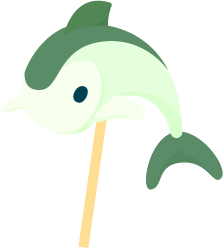
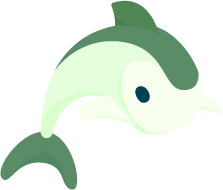
more cool animations! #todo get rid of the stick for the bird

diff --git a/js/parallax.js b/js/parallax.js
@@ -1,39 +1,82 @@
-
-
 $(function() {
 //$('#scene').parallax();	
 
 	//animating the waves
 	$(document).ready(function() {
 		//waves
-        var intId = setInterval(animateImageLeft,1000);
-        var intId = setInterval(animateupImageLeft,1000);
-        var intId = setInterval(animateImageupRight,1000);
-        var intId = setInterval(animateImageRight,1000);
+		var intId = setInterval(animateImageLeft,1000);
+		var intId = setInterval(animateupImageLeft,1000);
+		var intId = setInterval(animateImageupRight,1000);
+		var intId = setInterval(animateImageRight,1000);
+    var intId = setInterval(animateStump,1000);    
+    var intId = setInterval(animateStumpUp,1000);
+    var intId = setInterval(animateGator,1000);    
+    var intId = setInterval(animateGatorUp,1000);
+    //float that stork
+    $('#stork').each(function() {
+      $(this).jqFloat({
+        width:Math.floor(Math.random()*10)*10,
+        height:10,
+        speed:Math.floor(Math.random()*10)*100 + 500
+    });
+  }); 
+
+
         //.waves
         //fish
-        var intId = setInterval(animateupFish,1000);
-        var intId = setInterval(animateFish,1000);
+        //var intId = setInterval(animateupFish,1000);
+        //var intId = setInterval(animateFish,1000);
+        moveit();
+
     }); 
 
-    function animateImageLeft() {
-        $("#wave1").animate({bottom: '-10%'}, 3000, 'swing', 1000);
-          }
-    function animateupImageLeft() {
-       $('#wave1').animate({bottom: '-5%'}, 3000, 'swing',1000 );
-      }
-    function animateImageRight() {
-        $("#wave2").animate({bottom: '-10%'}, 3000, 'swing', 1000);
-          }
-    function animateImageupRight() {
-       $('#wave2').animate({bottom: '-5%'}, 3000, 'swing', 1000);
-      }
-      //end wave animation
+	function animateImageLeft() {
+		$("#wave1").animate({bottom: '-30%'}, 3000, 'swing', 1000);
+	}
+	function animateupImageLeft() {
+		$('#wave1').animate({bottom: '-25%'}, 3000, 'swing',1000 );
+	}
+	function animateImageRight() {
+		$("#wave2").animate({bottom: '-30%'}, 3000, 'swing', 1000);
+	}
+	function animateImageupRight() {
+		$('#wave2').animate({bottom: '-25%'}, 3000, 'swing', 1000);
+	}
+  function animateStump() {
+    $('#stump').animate({bottom: '15%'}, 3000, 'swing', 1000);
+  }
+  function animateStumpUp() {
+    $('#stump').animate({bottom: '20%'}, 3000, 'swing', 1000);
+
+  }
+  function animateGator() {
+    $('#gator').animate({bottom: '14%'}, 3000, 'swing', 1000);
+  }
+  function animateGatorUp() {
+    $('#gator').animate({bottom: '9%'}, 3000, 'swing', 1000);
+
+  }   //end wave animation
       //fish animation
-    function animateFish() {
-       $('#fish').animate({bottom: '-5%'}, 3000, 'swing', 1000);
+      /**function animateFish() {
+      	$('#fish').animate({bottom: '-7%'}, 3000, 'swing', 1000);
       }
-    function animateupFish() {
-       $('#fish').animate({bottom: '20%'}, 3000, 'swing', 1000);
+      function animateupFish() {
+      	$('#fish').animate({bottom: '20%'}, 3000, 'swing', 1000);
+      }**/
+      var t = 0;
+      function moveit() {
+      	t += 0.05;
+
+      	var r = 150;
+      	var xcenter = 425;
+      	var ycenter = 425;
+      	var newLeft = Math.floor(xcenter + (r * Math.cos(t)));
+      	var newTop = Math.floor(ycenter + (r * Math.sin(t)));
+      	$('#fishy').animate({
+      		top: newTop,
+      		left: newLeft,
+      	}, 75, function() {
+      		moveit();
+      	});
       }
-});
+  });

diff --git a/index.html b/index.html
@@ -41,12 +41,22 @@
             </ul>
             </div>
     </nav><!--./navbar-->
+
+    <img src="img/logo.png" class="logo" />
+
     <section id="title">
       <div class="container parallax-container">
         <!-- begin parallax -->
-
+      <div class="header-text">
+              <h2 class="name">SwampHacks</h2>
+              <h4 class="date">January 20-22, 2017 | University of Florida</h4>
+      </div>
         <ul id="scene">
-            <li id="fish" data-depth="1.0"><img src="img/parallax/fishy.png" style="size: 50%;" /></li>
+            <li data-depth="1.0"><img src="img/parallax/storky.png" id="stork" /></li>
+            <li data-depth="0.6"><img src="img/parallax/tree.png" id="tree"/></li>
+            <li data-depth="0.6"><img src="img/parallax/stumpy.png" id="stump"></li>
+            <li data-depth="1.0"><img src="img/parallax/fishy.png" id="fishy" /></li>
+            <li data-depth="0.8"><img src="img/parallax/gatory.png" id="gator" /></li>
             <li id="wave1" data-depth="0.6"><img src="img/parallax/wave1.png" style="width: 100%;" /></li>
             <li id="wave2" data-depth="0.6"><img src="img/parallax/wave2.png" style="width: 100%;" /></li>
         </ul>
@@ -376,6 +386,7 @@
         <script src="https://code.jquery.com/jquery-3.1.1.min.js"></script>
         <script src="https://cdn.jsdelivr.net/jquery.typeit/4.2.3/typeit.min.js"></script>
         <script src="https://cdnjs.cloudflare.com/ajax/libs/parallax/2.1.3/jquery.parallax.min.js"></script>
+        <script src="js/vendor/jqfloat.min.js"></script>
         <script src="js/vendor/bootstrap.min.js"></script>
         <script src="js/main.js"></script>
         <script src="js/parallax.js"></script>

diff --git a/js/main.js b/js/main.js
@@ -1,3 +1,9 @@
+$(document).ready(function () {
+    $('img.logo').fadeIn(1000).removeClass('.logo');
+    $('h2.name').fadeIn(2000).removeClass('.name');
+    $('h4.date').fadeIn(3000).removeClass('.date');
+});
+
 $(function() {
   $('a[href*="#"]:not([href="#"])').click(function() {
     if (location.pathname.replace(/^\//,'') == this.pathname.replace(/^\//,'') && location.hostname == this.hostname) {
@@ -42,17 +48,18 @@ $(function(){
 });
 
 //typeit
-$('#typed').typeIt({
+/**$('#typed').typeIt({
     strings: ['University of Florida | January 20-22, 2017'],
     speed: 100,
     lifeLike: true, 
     autoStart: true,
-});       
+});**/       
 
 // google analytics
- (function(i,s,o,g,r,a,m){i['GoogleAnalyticsObject']=r;i[r]=i[r]||function(){
+ /**(function(i,s,o,g,r,a,m){i['GoogleAnalyticsObject']=r;i[r]=i[r]||function(){
     (i[r].q=i[r].q||[]).push(arguments)},i[r].l=1*new Date();a=s.createElement(o),
      m=s.getElementsByTagName(o)[0];a.async=1;a.src=g;m.parentNode.insertBefore(a,m)
     })(window,document,'script','https://www.google-analytics.com/analytics.js','ga');
     ga('create', 'UA-85409295-1', 'auto');  
-    ga('send', 'pageview');
+    ga('send', 'pageview');**/
+

diff --git a/css/parallax.css b/css/parallax.css
@@ -28,7 +28,7 @@ li
 #wave1
 {
 	position: absolute;
-	bottom: 0px;
+	bottom: -50px;
 	left: 0px;
 	width: 100%;
 }
@@ -36,17 +36,47 @@ li
 #wave2
 {
 	position: absolute;
-	bottom: 0px;
+	bottom: -50px;
 	right: 0px;
 	width: 100%;
 }
 
-#fish
+#fishy
 {
 	position: absolute;
-	margin-bottom: 0px;
-	width: 50%;
-	height: 50%;
+	margin-left: -10%;
+	max-width: 15%;
+	max-height: 15%;
+	bottom: 0;
 }
 
+#tree 
+{
+	position: absolute;
+	right: 0;
+	height: 100%;
+	bottom: 50px;
+}
+
+#stump
+{
+	position: absolute;
+	right: 150px;
+	bottom: 100px;
+	max-width: 20%;
+	max-height: 20%;
+}
+
+#gator
+{
+	position: absolute;
+	margin-left: 31%;
+	bottom: 110px;
+}
+
+#stork
+{
+	position: absolute;
+	top: -30px;
+}
 

diff --git a/css/main.css b/css/main.css
@@ -66,6 +66,18 @@ a:hover {
     color: #6d6c6c;
 }
 
+img.logo {
+  display: none;
+}
+
+h2.name {
+  display: none;
+}
+
+h4.date {
+  display: none;
+}
+
 #sponsors-email a {
     text-decoration: none;
     color: #3FABE5;
@@ -177,6 +189,28 @@ a:hover {
 .white-divider {
   width: 100%;
   margin-bottom: -100px;
+}
+
+.header-text {
+  text-align: center;
+  top: 100px;
+}
+
+.name {
+  color: white;
+}
+
+.date {
+  color: white;
+}
+
+.logo {
+    position: absolute;
+    margin: auto;
+    left: 0; 
+    right: 0;
+    top: -75%;
+    bottom: 0;  
 }
 
 #title {
